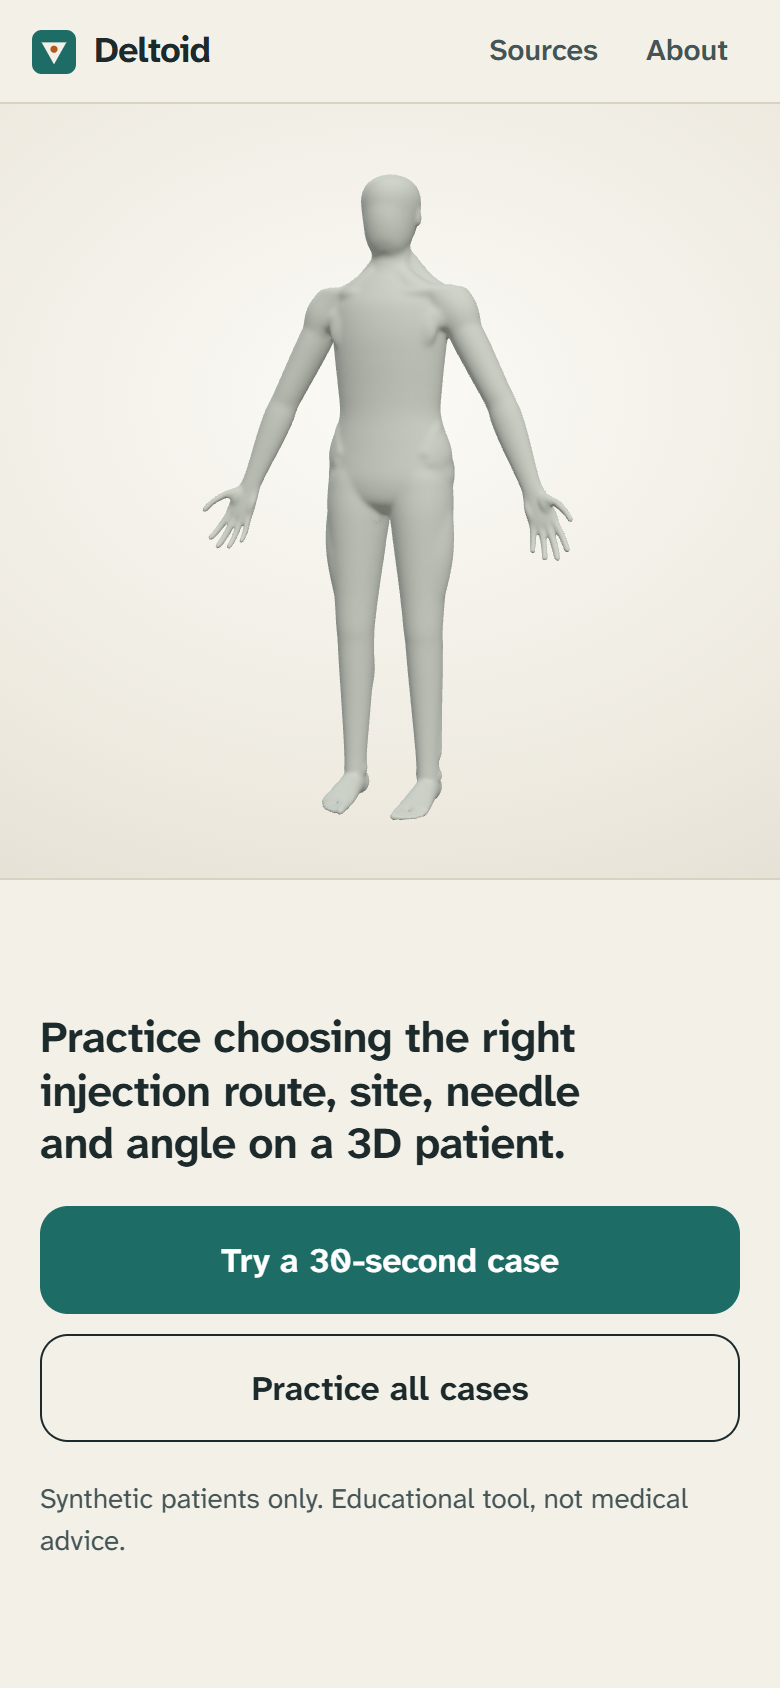
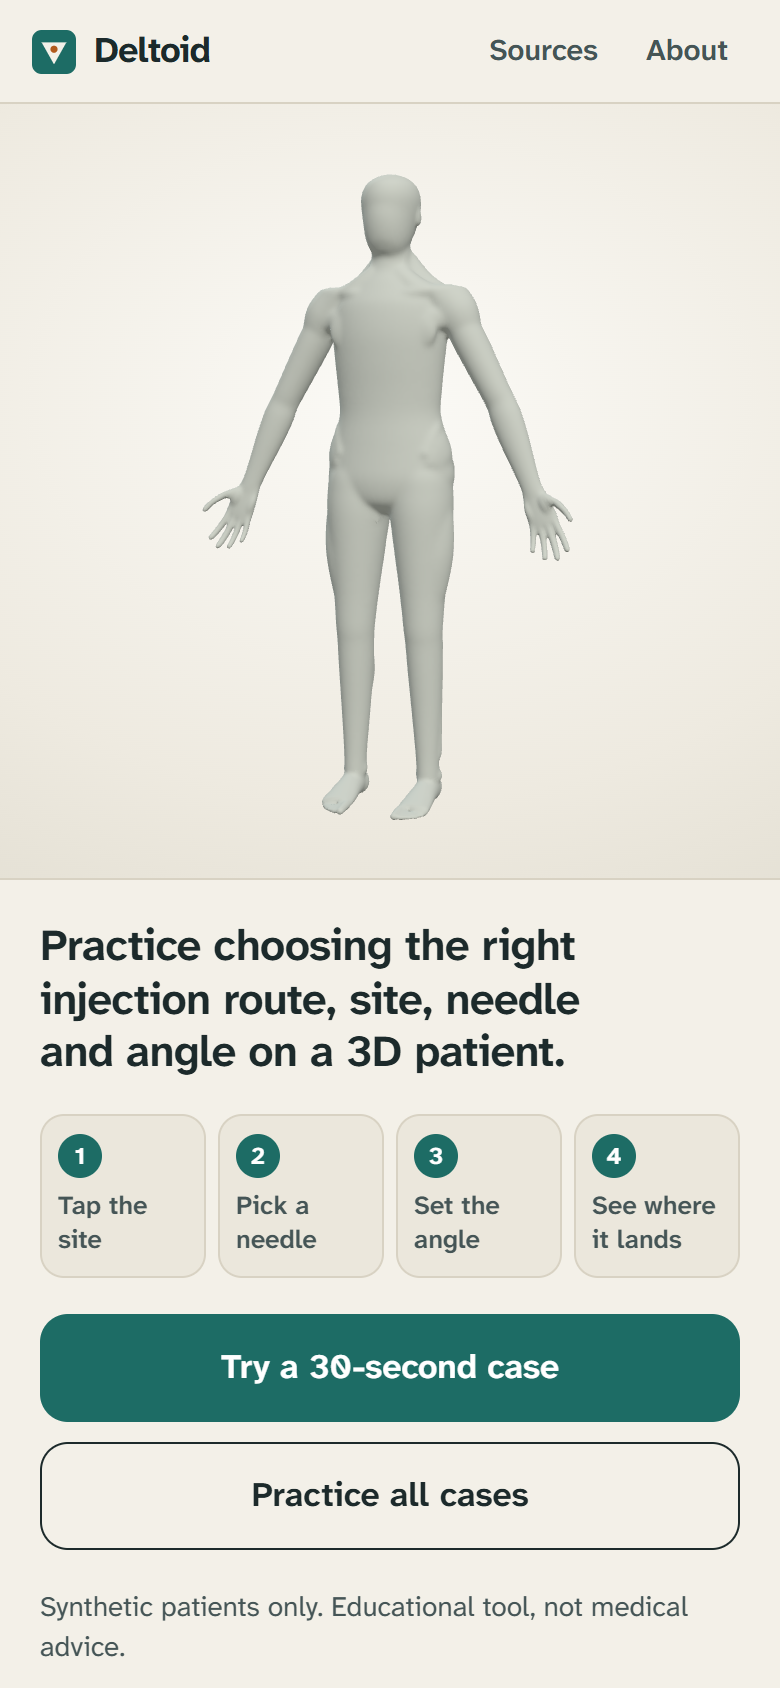
Refresh the README for the new workflow
Describe the progress track, step indicator, CDC's answer after a miss,
Try again and the round of missed cases; update the Lighthouse scores
measured on the live site; and replace the screenshots with ones from
the current UI, adding the desktop review.

diff --git a/README.md b/README.md
@@ -5,19 +5,24 @@ A 3D injection site trainer for medical assistants. Pick the route, tap the site
 **Live:** https://deltoid-eight.vercel.app (no login; opens on a phone)
 
 <p>
-  <img src="docs/phone-home.png" alt="First screen: a 3D patient, one sentence and two buttons" width="24%">
+  <img src="docs/phone-home.png" alt="First screen: a 3D patient, one sentence, the four steps of a case and two buttons" width="24%">
   <img src="docs/phone-landmarks.png" alt="Landmarks switched on: skeleton, muscles and injection areas under the skin" width="24%">
-  <img src="docs/phone-cutaway.png" alt="Needle and angle controls with the tissue cutaway" width="24%">
+  <img src="docs/phone-cutaway.png" alt="Needle and angle controls with the tissue cutaway, the needle tip in muscle" width="24%">
   <img src="docs/phone-result.png" alt="Result: correct, with the tissue reached and the CDC source" width="24%">
 </p>
 
 ## What it does
 
-- **A 30-second case.** One synthetic patient, four taps: the site, the needle length, the angle, and "Check answer".
-- **Practice mode.** Ten cases mixing adults and infants across intramuscular, subcutaneous and intradermal routes, with a running score and a review of each miss.
-- **Specific feedback.** The result says which tissue the needle ended in and what was off (site, angle or needle length), with a link to the CDC page it comes from.
+- **A 30-second case.** One synthetic patient, four taps: the site, the needle length, the angle, and "Check answer". The first screen shows those four steps before you start.
+- **Practice mode.** Ten cases mixing adults and infants across intramuscular, subcutaneous and intradermal routes. A bar per case tracks correct and missed answers, and a step indicator shows where you are inside a case.
+- **Specific feedback.** The result says which tissue the needle ended in and what was off (site, angle or needle length), with a link to the CDC page it comes from. After a miss it shows CDC's answer (site, needle, angle) straight away.
+- **Learn from misses.** "Try again" reruns a missed case without changing the score. The review lists every case, explains each miss, and offers a round of just the missed cases.
 - **Landmarks on demand.** "Show landmarks" makes the skin translucent and reveals the skeleton, the injection muscles and the labelled bony landmarks: acromion, greater trochanter, iliac crest, anterior superior iliac spine, and the thirds of the thigh.
 - **Phone first.** Tap to select, drag to turn, pinch to zoom. A tap is told from a drag by how far the finger moved, not by time. Controls are at least 44 px and sit in the lower half of the screen.
+
+<p>
+  <img src="docs/desktop-review.png" alt="Desktop: the review lists every case with what was off, and offers a round of the missed cases" width="80%">
+</p>
 
 No backend, no account, no cookies, no analytics. Progress lives in memory and is gone on reload.
 
@@ -81,7 +86,7 @@ Export is glTF binary, Y up, transforms applied, in metres, then meshopt compres
 - Next.js (App Router, TypeScript), statically rendered, deployed on Vercel
 - three.js, loaded after first paint; device pixel ratio capped at 2; frames drawn only when something changes
 - Atkinson Hyperlegible Next, self-hosted
-- Lighthouse mobile on the live site: performance 97, accessibility 98, best practices 100
+- Lighthouse mobile on the live site (16 November 2026): performance 98, accessibility 100, best practices 100
 
 ## Run it locally
 
@@ -96,7 +101,7 @@ Other scripts:
 | --- | --- |
 | `npm run build` | Production build |
 | `npm run lint` | ESLint |
-| `npm run e2e -- http://localhost:3000` | Scripted run with real touch input on a 390x844 screen (needs Edge or Chrome installed): the 30-second case, a drag and a pinch that must not place a site, a small phone, reduced motion, no WebGL, and a full practice run |
+| `npm run e2e -- http://localhost:3000` | Scripted run with real touch input on a 390x844 screen (needs Edge or Chrome installed): the 30-second case, a drag and a pinch that must not place a site, Try again after a miss, a small phone, reduced motion, no WebGL, and a full practice run with its review and a round of the missed cases |
 | `npm run models:compress` | Recompress the Blender exports into `public/models` and check the size budget |
 
 To rebuild the models, open Blender, add `assets/blender/scripts` to the Python path and run `build_patient.build("adult")`, `build_patient.build("infant")`, `build_tissue.build()`, `build_syringe.build()` and `export_all.run(...)`.
